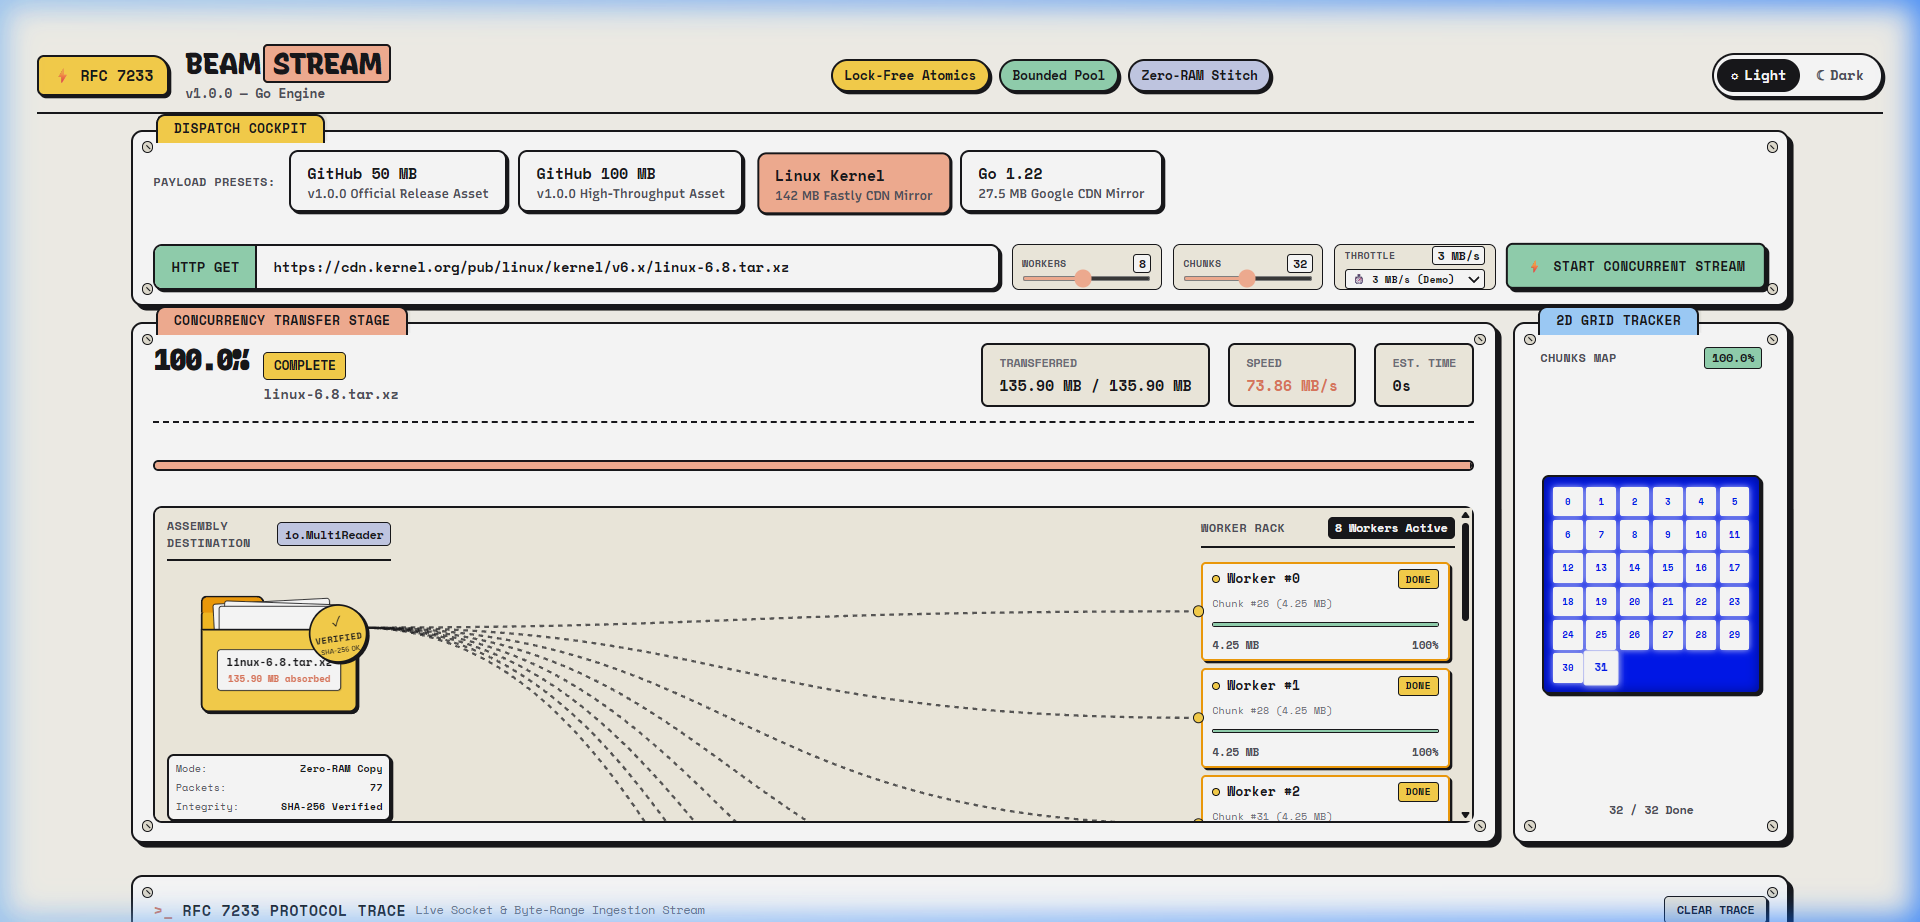
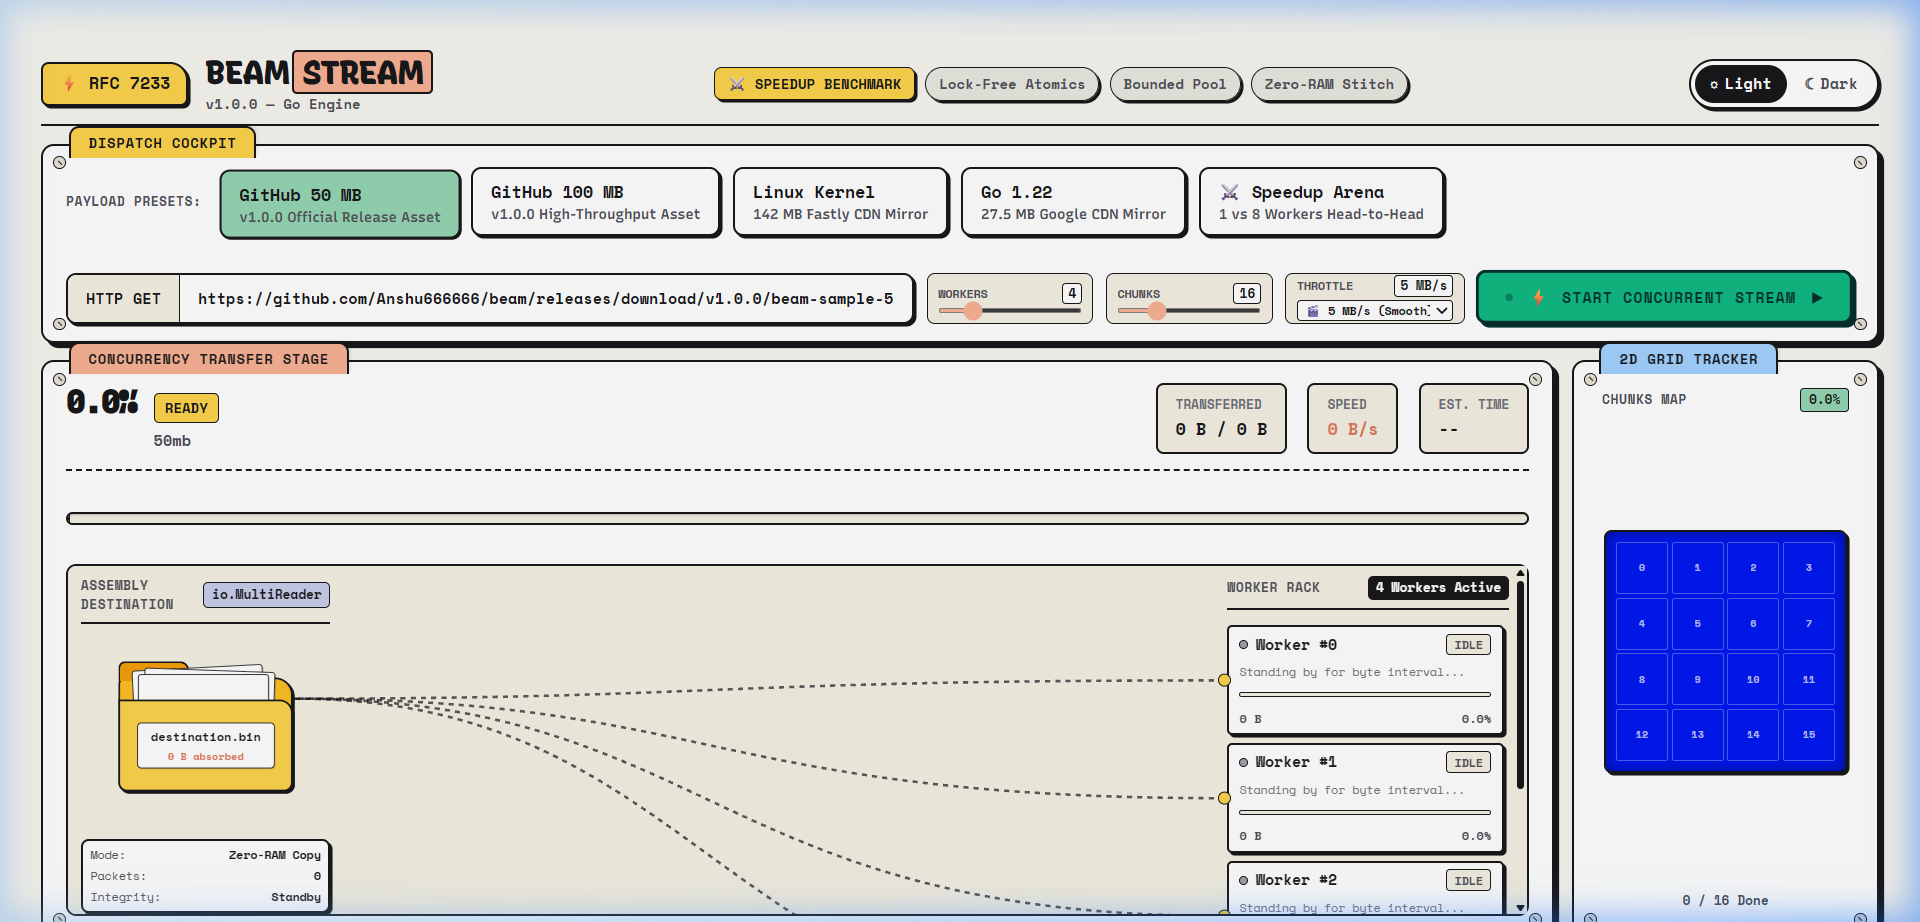
docs: update visual showcase with Speedup Arena screenshot and fresh dashboard captures

diff --git a/README.md b/README.md
@@ -65,7 +65,16 @@ Real-time aggregate throughput monitoring (`MB/s`), worker Goroutine progress tr
 
 ---
 
-### 2. Dispatch Cockpit & Token-Bucket Bandwidth Limiter
+### 2. Side-by-Side Sequential vs. Parallel Speedup Arena
+Real-time head-to-head benchmark racing a standard 1-worker sequential HTTP baseline against Beam's 8-worker RFC 7233 byte-range parallel engine on live CDN payloads. Features real-time speedup multiplier calculation and transfer latency reduction metrics.
+
+<p align="center">
+  <img src="assets/benchmark_arena_dark.png" alt="Sequential vs Parallel Speedup Arena" width="100%" style="border-radius: 8px;">
+</p>
+
+---
+
+### 3. Dispatch Cockpit & Token-Bucket Bandwidth Limiter
 Quick-select real-world CDN payloads (GitHub Release Assets, Linux Kernel Fastly CDN, Go Dev Mirror), parametric worker/chunk sliders, and built-in Token Bucket throttling (1 MB/s, 3 MB/s, 5 MB/s, 10 MB/s, Max).
 
 <p align="center">
@@ -74,7 +83,7 @@ Quick-select real-world CDN payloads (GitHub Release Assets, Linux Kernel Fastly
 
 ---
 
-### 3. 2D Discrete Chunk Matrix & Cryptographic Seal Verification
+### 4. 2D Discrete Chunk Matrix & Cryptographic Seal Verification
 Compact defrag-style chunk visualizer tracking discrete states (Idle `0`, Downloading `⚡`, Completed `✓`) alongside final cryptographic SHA-256 integrity validation.
 
 <p align="center">
@@ -83,7 +92,7 @@ Compact defrag-style chunk visualizer tracking discrete states (Idle `0`, Downlo
 
 ---
 
-### 4. High-Contrast Retro Light Mode
+### 5. High-Contrast Retro Light Mode
 Neo-brutalist tactile chassis with protruding folder tabs, recessed card bezels, and spring micro-interactions for bright ambient workstations.
 
 <p align="center">
